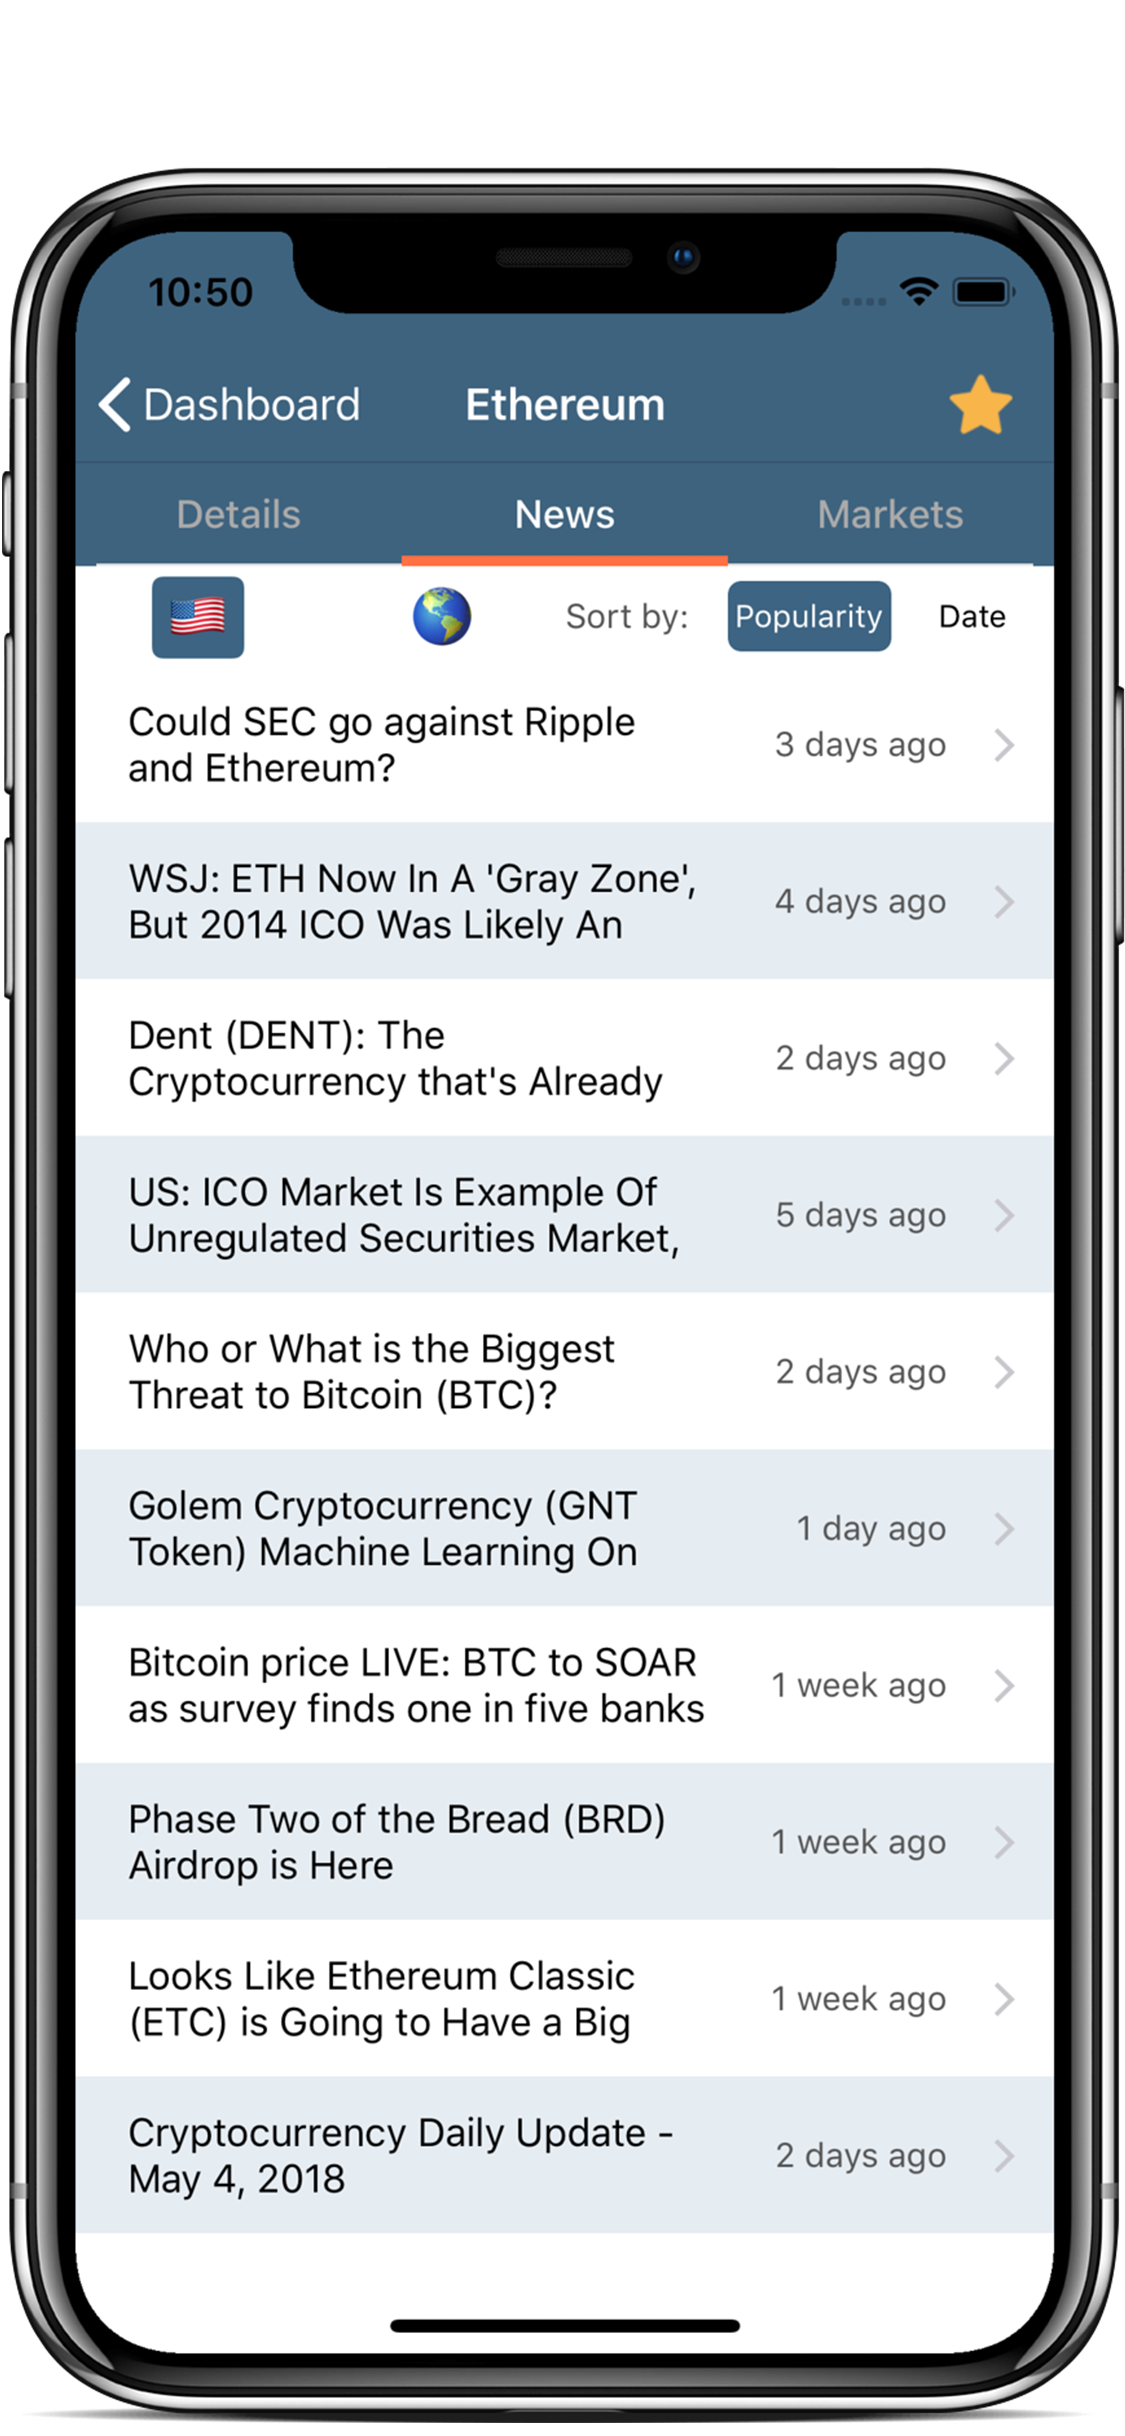
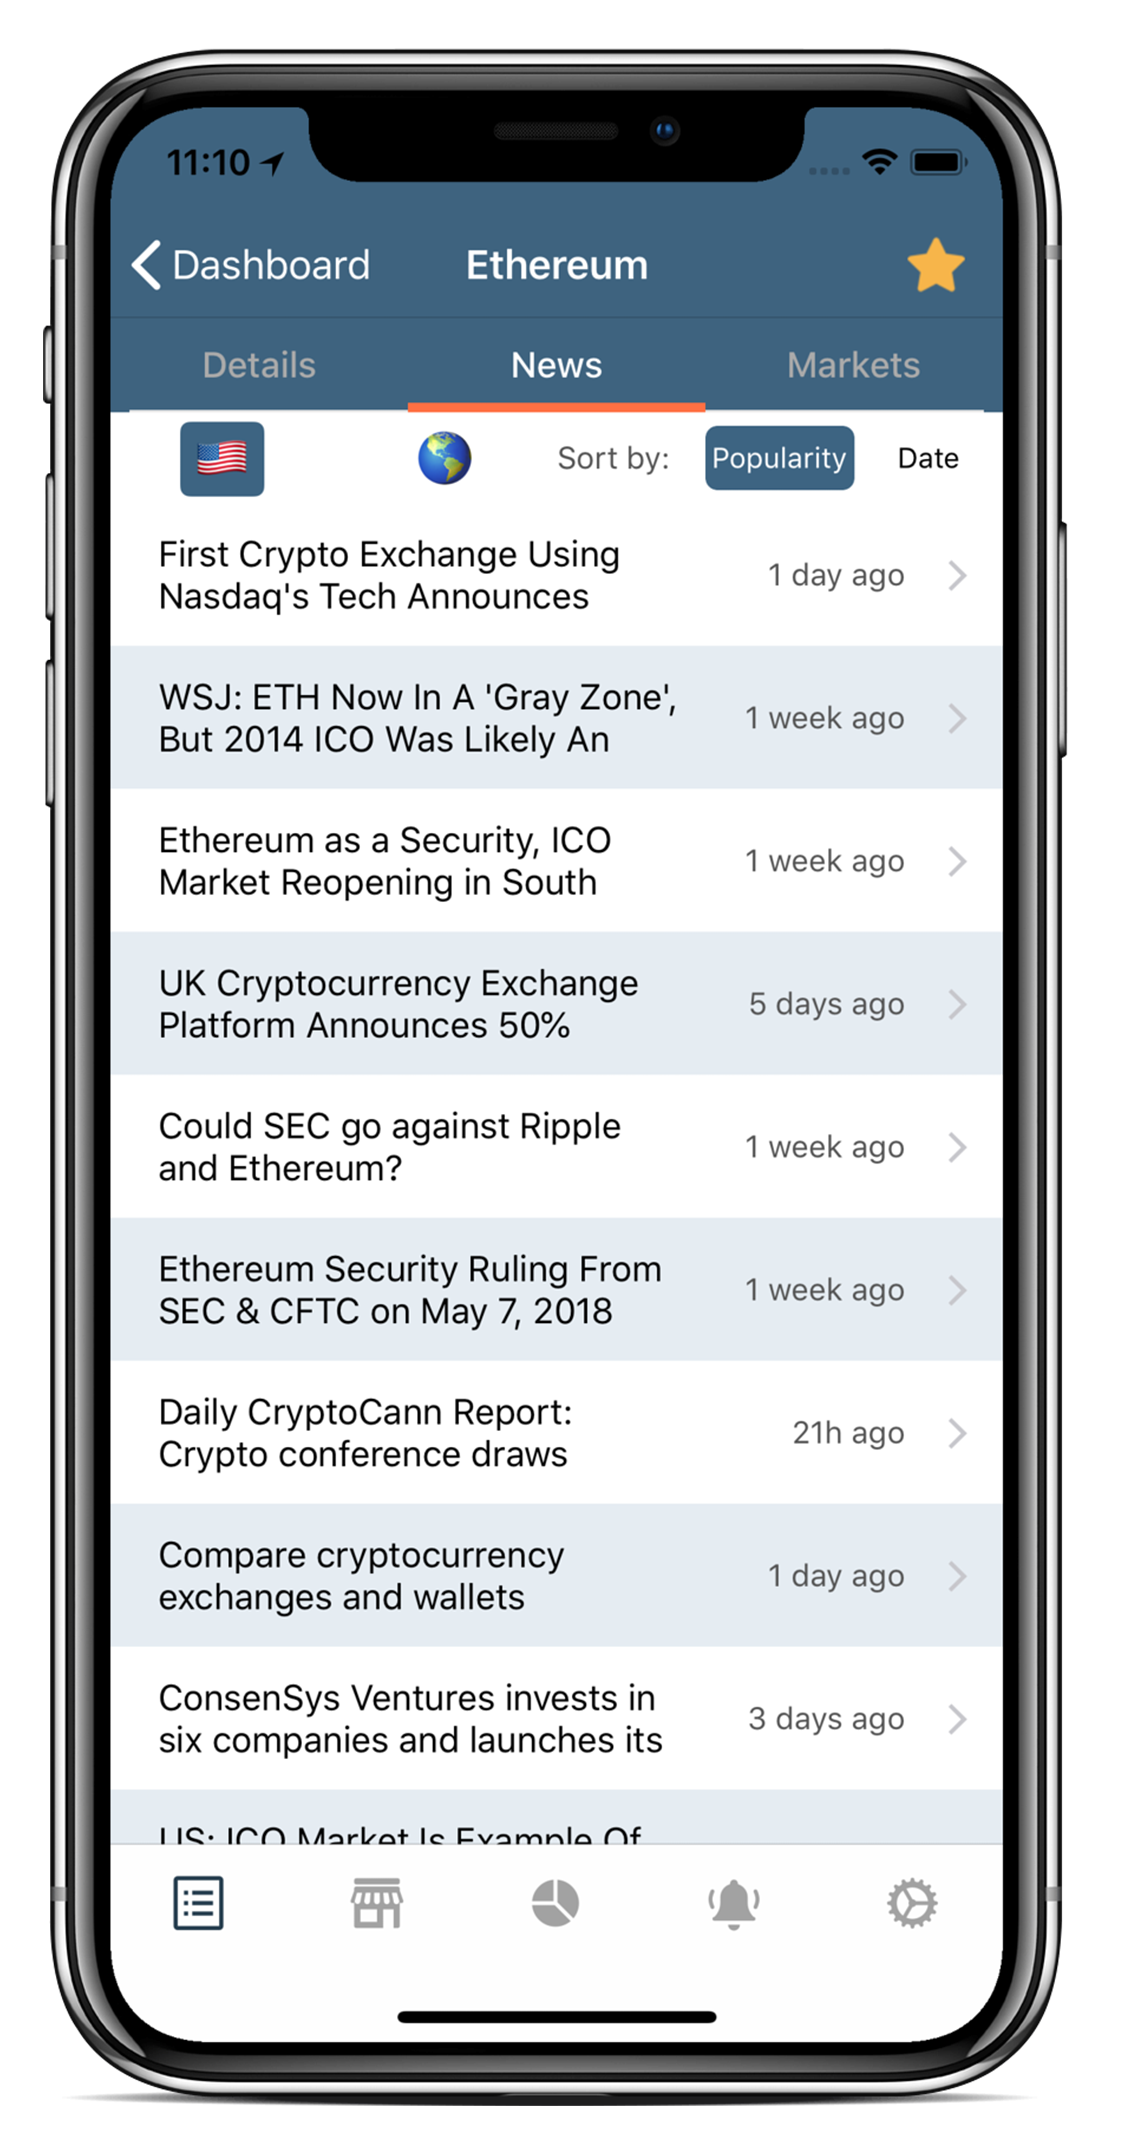
Updated images to new ones (tab bar)

diff --git a/style.css b/style.css
@@ -389,6 +389,10 @@ h1 .mb-3 {
 *Header-area
 **/
 
+#home-page {
+    padding-top: 80px;
+}
+
 .header-area {
     padding-top: 50px;
     padding-bottom: 50px;
